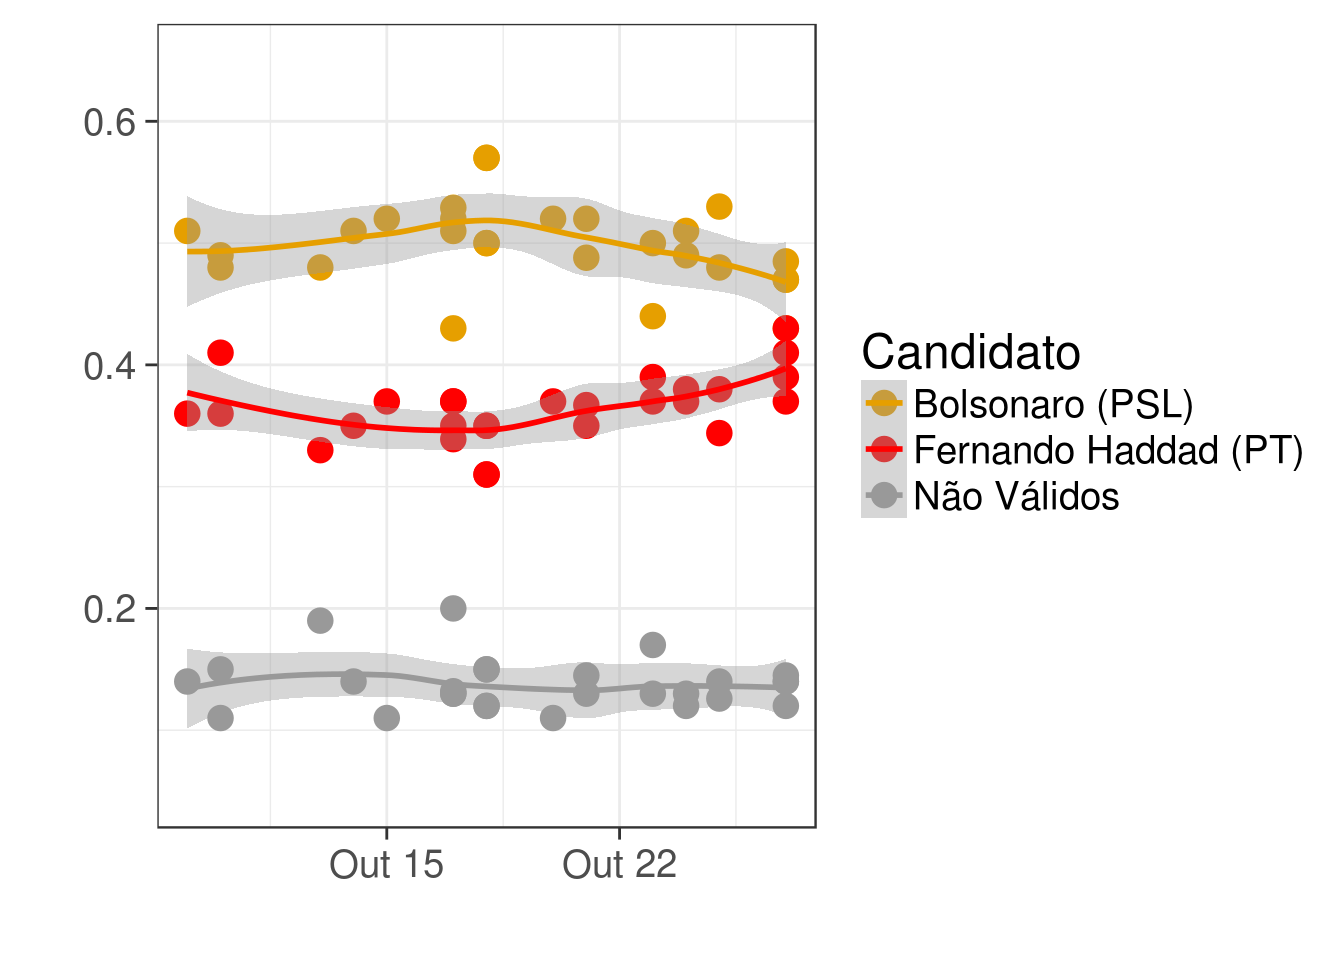
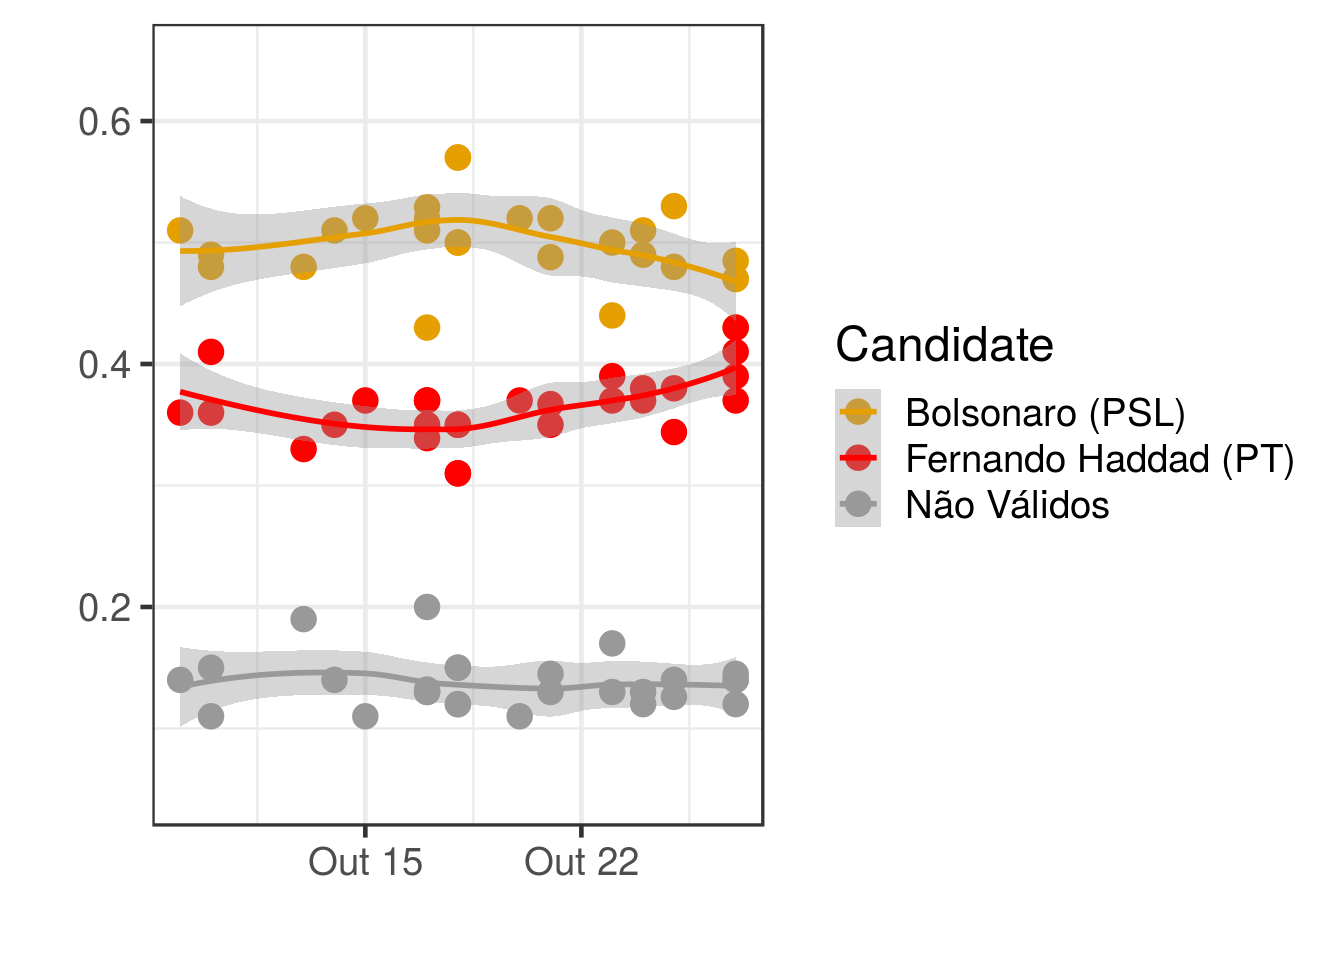
Traduzindo para o ingles

diff --git a/eleicoes2018.html b/eleicoes2018.html
@@ -251,9 +251,9 @@ $(document).ready(function () {
 </div>
 
 
-<div id="dados" class="section level2">
-<h2>Dados</h2>
-<p>Peguei os dados das pesquisas registradas usando no site pooling data <a href="http://www.pollingdata.com.br" class="uri">http://www.pollingdata.com.br</a>. Mas quem quiser, pode baixar o arquivo csv <a href="files/PollingData%20-%202018-T2-Brasil-BR-President.csv">aqui</a>.</p>
+<div id="data" class="section level2">
+<h2>Data</h2>
+<p>I got the data in the pooling data website: <a href="http://www.pollingdata.com.br" class="uri">http://www.pollingdata.com.br</a>. But the csv file is availabe here: <a href="files/PollingData%20-%202018-T2-Brasil-BR-President.csv">aqui</a>.</p>
 <pre class="r"><code>library(tidyverse)
 library(lubridate)
 
@@ -266,74 +266,69 @@ dados2 &lt;- mutate(dados, Total = `Bolsonaro (PSL)` + `Fernando Haddad (PT)`,
                  Bolsonaro = `Bolsonaro (PSL)` / Total, 
                  Haddad = `Fernando Haddad (PT)` / Total ) %&gt;%
   select( Data, Bolsonaro, Haddad, Entrevistas, Instituto) %&gt;%
-  gather(Candidato, Prop,-Data, -Entrevistas, -Instituto)</code></pre>
+  gather(Candidato, Prop,-Data, -Entrevistas, -Instituto) </code></pre>
 </div>
-<div id="todos-os-votos-e-pesquisas" class="section level2">
-<h2>Todos os votos e pesquisas</h2>
+<div id="considering-valid-and-non-valid-votes-and-all-registred-polls" class="section level2">
+<h2>Considering valid and non-valid votes and all registred polls</h2>
 <p><img src="eleicoes2018_files/figure-html/unnamed-chunk-2-1.png" width="672" /><img src="eleicoes2018_files/figure-html/unnamed-chunk-2-2.png" width="672" /></p>
 </div>
-<div id="considerando-apenas-as-do-segundo-turno" class="section level2">
-<h2>Considerando apenas as do segundo turno</h2>
+<div id="considering-only-second-round-polls-registred-after-7-oct-2018" class="section level2">
+<h2>Considering only Second round polls (Registred after 7 Oct 2018)</h2>
 <p><img src="eleicoes2018_files/figure-html/unnamed-chunk-3-1.png" width="672" /><img src="eleicoes2018_files/figure-html/unnamed-chunk-3-2.png" width="672" /></p>
 </div>
-<div id="modelando-usando-uma-verossimilhanca-beta-e-efeito-aleatorio-dinamico" class="section level2">
-<h2>Modelando usando uma verossimilhança Beta e efeito aleatório dinâmico</h2>
-<p><span class="math display">\[Y_t \sim Beta(\mu_t, \phi), \quad t=1,2,\ldots \]</span> onde <span class="math inline">\(t=1\)</span> é o dia da eleição (não considerei o resultado da eleição do primeiro turno), a função de ligação é dada por <span class="math display">\[logit(\mu_t) = \alpha + \beta_t\]</span> onde <span class="math inline">\(\alpha\)</span> é um efeito fixo, e <span class="math inline">\(\beta_t\)</span> segue um passeio aleatório de ordem 2.</p>
+<div id="model" class="section level2">
+<h2>Model</h2>
+<p>Let <span class="math inline">\(Y_t\)</span> be the proportional of votes for Fernando Haddad at day <span class="math inline">\(t\)</span>, <span class="math inline">\(t=1,2,\ldots,T\)</span>, where <span class="math inline">\(T=\)</span> ellection day. Since <span class="math inline">\(Y_t \in (0,1)\)</span>, the likelihood is assumed to be a Beta distribution with mean <span class="math inline">\(\mu_t\)</span> and scale parameter <span class="math inline">\(\phi\)</span>, i.e. <span class="math display">\[Y_t \sim Beta(\mu_t, \phi),\]</span> where <span class="math inline">\(\phi&gt;0\)</span> and <span class="math inline">\(\mu_t \in (0,1)\)</span> is given by <span class="math display">\[logit(\mu_t) = \alpha + \beta_t,\]</span> <span class="math inline">\(\alpha\)</span> is a fixed effect, and <span class="math inline">\(\beta_t\)</span> is a time-varying second-order random walk.</p>
+<p>In INLA this is represented as the following:</p>
 <pre class="r"><code>library(INLA)
 
-# Somente segundo turno, votos válidos para Haddad e adicionado a data da eleicao
+# Taking only the polls after 7 Oct 2018
 seq_2turno &lt;- seq.Date(from = ymd(&quot;2018-10-07&quot;), to = ymd(&quot;2018-10-28&quot;), by=1)
 
-
+# Preparing the data (using tidyverse magic) :-)
 dadosM &lt;- filter(dados2, Data &gt; &quot;2018-10-07&quot;, Candidato == &quot;Haddad&quot;) %&gt;%
   bind_rows(tibble(Data = seq_2turno, Candidato = &quot;Haddad&quot;, Prop = NA)) %&gt;%
   mutate( Days = as.numeric( Data - min(Data) ) + 1,
           Peso = round(Entrevistas / min(Entrevistas, na.rm = T))) %&gt;%
   replace_na(list(Peso = 1))
 
-
+# Model equation
 model &lt;- Prop ~ 1 + f(Days, model = &quot;rw2&quot;)
 
-
+# INLA fit
 r &lt;- inla(model, data = dadosM, family = &quot;beta&quot;, control.predictor = list( compute = T, link = T))
 
-
+# Forecast
 Prediction &lt;- as_tibble(
-  r$summary.fitted.values[(nrow(dadosM)-length(seq_2turno)+1):nrow(dadosM),]) %&gt;% bind_cols(Data = seq.Date(from = ymd(&quot;2018-10-07&quot;), to = ymd(&quot;2018-10-28&quot;), by=1))
-
-
-p1 &lt;- ggplot(filter(dados2, Data &gt; &quot;2018-10-07&quot;), aes(x = Data, y = Prop, color = Candidato)) + geom_point(size = 4) + theme_bw(base_size = 18) + xlab(&quot;&quot;) + ylab(&quot;&quot;) + scale_color_manual(values=c(&quot;#E69F00&quot;, &quot;red&quot;)) + ylim(c(0.3,.7))
+  r$summary.fitted.values[(nrow(dadosM)-length(seq_2turno)+1):nrow(dadosM),]) %&gt;% bind_cols(Data = seq.Date(from = ymd(&quot;2018-10-07&quot;), to = ymd(&quot;2018-10-28&quot;), by=1))</code></pre>
+</div>
+<div id="plotting-the-forecast" class="section level2">
+<h2>Plotting the forecast</h2>
+<pre class="r"><code>p1 &lt;- ggplot(filter(dados2, Data &gt; &quot;2018-10-07&quot;), aes(x = Data, y = Prop, color = Candidato)) + geom_point(size = 4) + theme_bw(base_size = 18) + xlab(&quot;&quot;) + ylab(&quot;&quot;) + scale_color_manual(values=c(&quot;#E69F00&quot;, &quot;red&quot;)) + ylim(c(0.3,.7))
 
 p1 + geom_line(data = Prediction, mapping = aes(x = Data, y = mode), color = &quot;red&quot;) + 
   geom_ribbon(data = Prediction, mapping = aes(x = Data, y = mode, ymin = `0.025quant`, ymax = `0.975quant`), color = &quot;red&quot;, fill = &quot;red&quot;, alpha = 0.2) +
   geom_line(data = Prediction, mapping = aes(x = Data, y = 1-mode), color = &quot;#E69F00&quot;) +
-  geom_ribbon(data = Prediction, mapping = aes(x = Data, y = 1-mode, ymax = 1-`0.025quant`, ymin = 1-`0.975quant`), color = &quot;#E69F00&quot;, fill = &quot;#E69F00&quot;, alpha = 0.2)</code></pre>
-<pre><code>## Warning: Ignoring unknown aesthetics: y
-
-## Warning: Ignoring unknown aesthetics: y</code></pre>
-<p><img src="eleicoes2018_files/figure-html/unnamed-chunk-4-1.png" width="672" /></p>
+  geom_ribbon(data = Prediction, mapping = aes(x = Data, y = 1-mode, ymax = 1-`0.025quant`, ymin = 1-`0.975quant`), color = &quot;#E69F00&quot;, fill = &quot;#E69F00&quot;, alpha = 0.2) +
+  guides(color = guide_legend(title = &quot;Candidate&quot;))</code></pre>
+<p><img src="eleicoes2018_files/figure-html/unnamed-chunk-5-1.png" width="672" /></p>
 </div>
-<div id="estimativas-de-votos-validos-do-haddad" class="section level2">
-<h2>Estimativas de votos válidos do Haddad</h2>
-<pre class="r"><code>tail(Prediction)</code></pre>
-<pre><code>## # A tibble: 6 x 7
-##    mean     sd `0.025quant` `0.5quant` `0.975quant`  mode Data      
-##   &lt;dbl&gt;  &lt;dbl&gt;        &lt;dbl&gt;      &lt;dbl&gt;        &lt;dbl&gt; &lt;dbl&gt; &lt;date&gt;    
-## 1 0.429 0.0136        0.402      0.429        0.456 0.429 2018-10-23
-## 2 0.433 0.0142        0.405      0.433        0.461 0.433 2018-10-24
-## 3 0.438 0.0154        0.407      0.438        0.468 0.438 2018-10-25
-## 4 0.443 0.0175        0.408      0.443        0.477 0.442 2018-10-26
-## 5 0.448 0.0205        0.408      0.447        0.489 0.447 2018-10-27
-## 6 0.453 0.0246        0.406      0.452        0.503 0.451 2018-10-28</code></pre>
-<p>Note que a última linha é o dia da eleição.</p>
-<p>Calculando a probabilidade de vitória do Haddad, <span class="math inline">\(P(Y_T &gt; 0.50)\)</span>, onde <span class="math inline">\(T\)</span> é o dia da eleição (28/10/2018).</p>
+<div id="estimates-for-haddad-results" class="section level2">
+<h2>Estimates for Haddad results</h2>
+<pre class="r"><code>Prediction[22, c(1, 3, 5)]</code></pre>
+<pre><code>## # A tibble: 1 x 3
+##    mean `0.025quant` `0.975quant`
+##   &lt;dbl&gt;        &lt;dbl&gt;        &lt;dbl&gt;
+## 1 0.453        0.406        0.503</code></pre>
+<p>Notice that the final result was 44.87%, a very good forecast I would say.</p>
+<p>The posteiror probability of Haddad win the ellection, <span class="math inline">\(P(Y_T &gt; 0.50)\)</span>, where <span class="math inline">\(T\)</span> is the ellection day (28 Oct 2018) can easily be calculated in INLA:</p>
 <pre class="r"><code>aux &lt;- names(r$marginals.fitted.values)
 
 prob &lt;- 1 - inla.pmarginal( q = 0.50, 
                 marginal = r$marginals.fitted.values[aux[length(aux)]][[1]]
                 )
 round(prob,4)</code></pre>
-<pre><code>## [1] 0.0309</code></pre>
+<pre><code>## [1] 0.0306</code></pre>
 </div>
 
 
